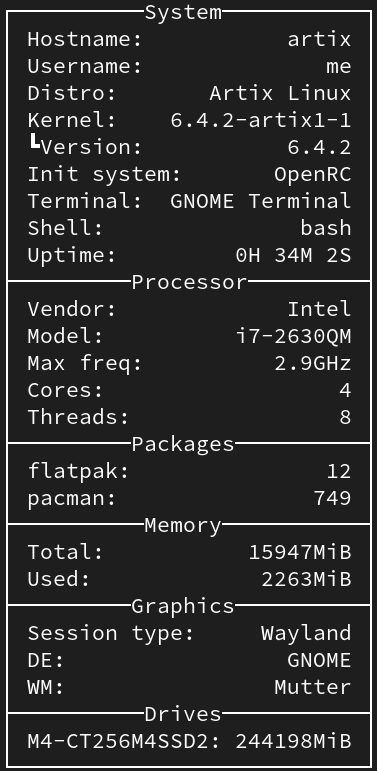
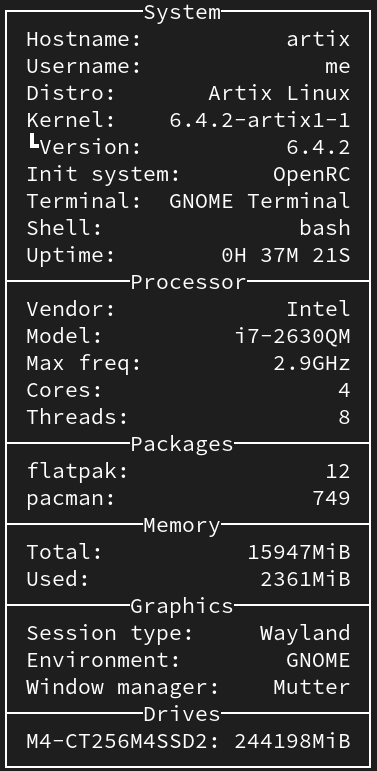
Add graphics detection (session type, desktop environment, window manager)

diff --git a/src/main.rs b/src/main.rs
@@ -108,12 +108,12 @@ fn get_info() -> BTreeMap<String, Vec<String>> {
     let de = software::graphics::detect_de();
     if de.is_some() {
         let de = de.unwrap();
-        write!(buf, "DE: {de}\0");
+        write!(buf, "Environment: {de}\0");
     }
     let wm = software::graphics::detect_wm();
     if wm.is_some() {
         let wm = wm.unwrap();
-        write!(buf, "WM: {wm}\0");
+        write!(buf, "Window manager: {wm}\0");
     }
     result.insert(
         "Graphics".to_string(),
